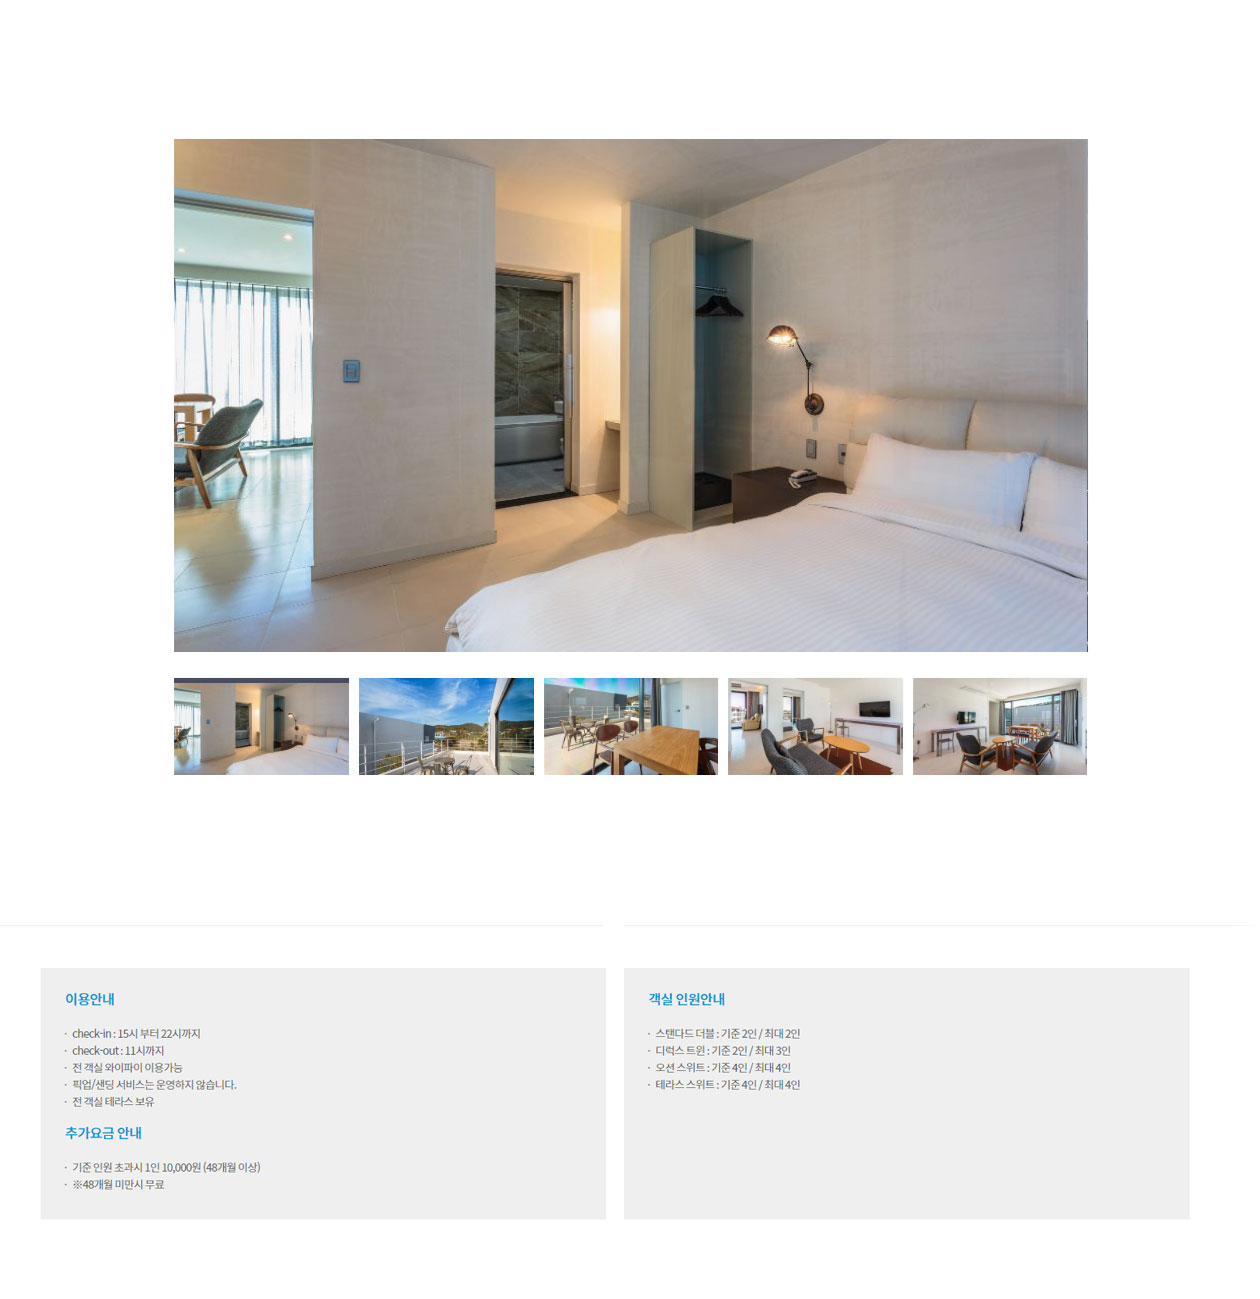
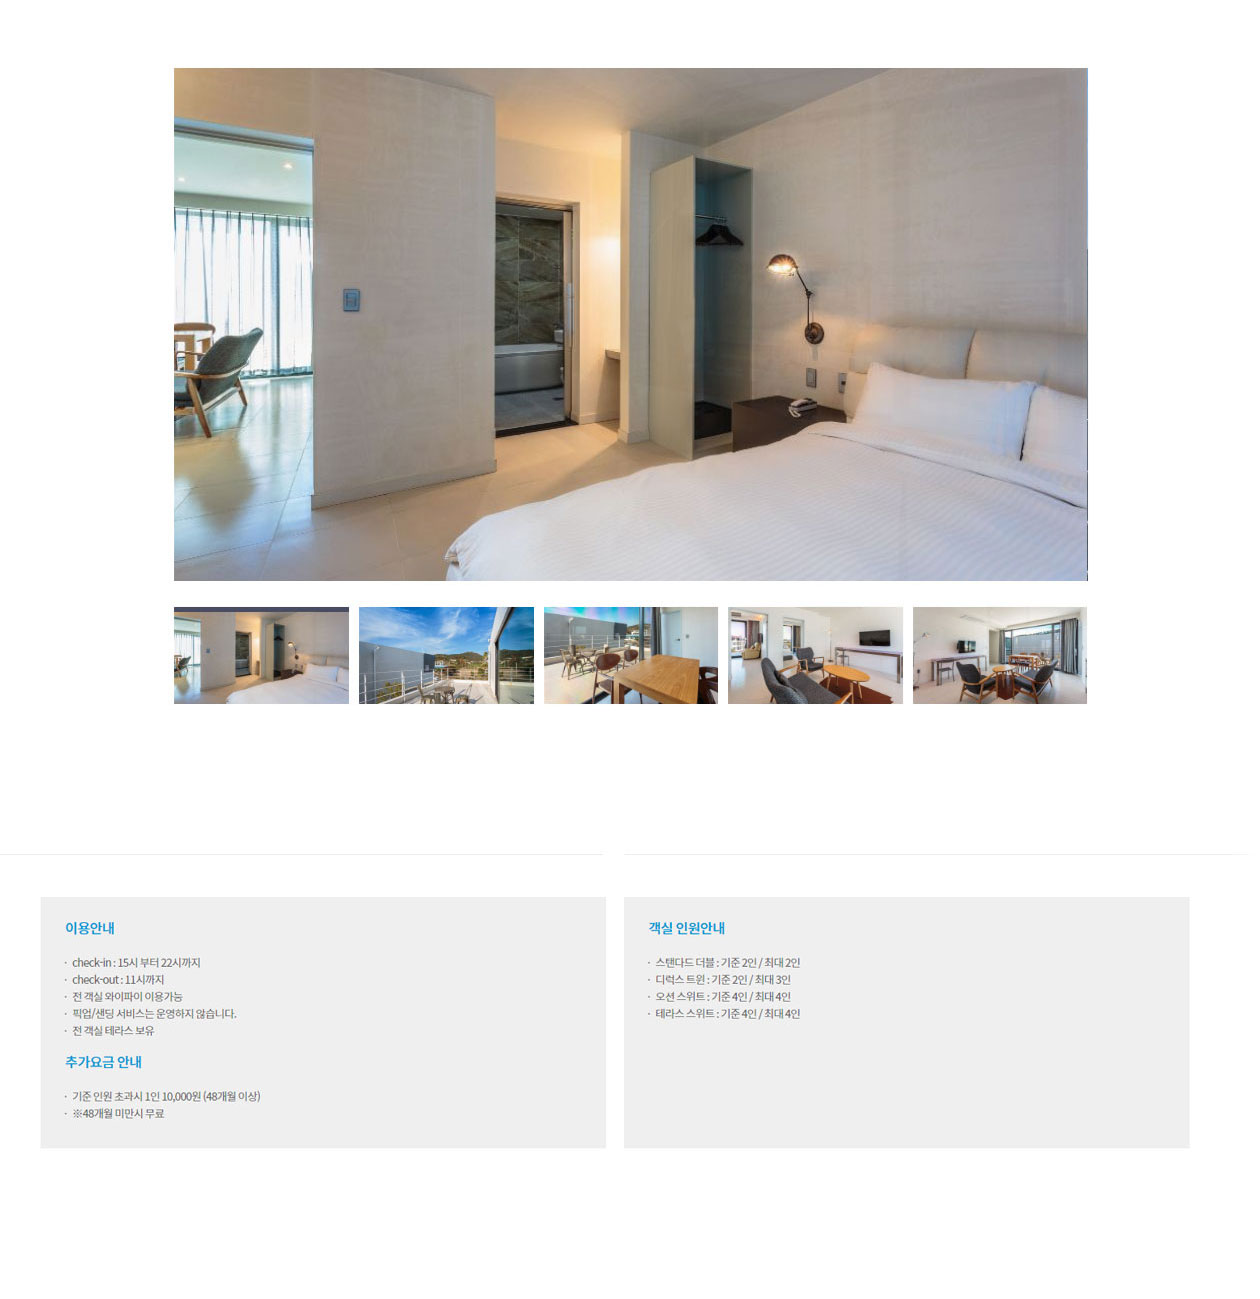
20190725

Changed region(s): [[0.1238, 0.0308, 0.8667, 0.6159], [0.031, 0.7082, 0.2167, 0.9238], [0.4952, 0.7082, 0.65, 0.8622]]

diff --git a/04company/index3.html b/04company/index3.html
@@ -136,16 +136,16 @@
 				</div>
 
       		</li>
-      		<li class="content5st wow fadeInUp" data-wow-delay="0.4s">
+      		<li class="content5st wow fadeInUp" data-wow-delay="0.1s">
       				<img src="images/main_icon_01_02.png" alt="icon_01_02">
       				<p>회사소개</p>
 
         	</li>
-      		<li class="content6st wow fadeInUp" data-wow-delay="0.5s">
+      		<li class="content6st wow fadeInUp" data-wow-delay="0.2s">
       				<img src="images/main_icon_01_03.png" alt="icon_01_03">
       				<p>투자정보</p>
         	</li>
-      		<li class="content7st wow fadeInUp" data-wow-delay="0.6s">
+      		<li class="content7st wow fadeInUp" data-wow-delay="0.3s">
       			<img src="images/main_img_01_05.jpg" alt="">
       			<div class="card">
       				<h3>전력 및 에너지 플렌트</h3>
@@ -154,30 +154,30 @@
       		</li>
       		
 
-      		<li class="content8st wow fadeInUp" data-wow-delay="0.6s">
+      		<li class="content8st wow fadeInUp" data-wow-delay="0.4s">
       			<img src="images/main_img_01_03.jpg" alt="img_01_03">
       			<div class="card">
       				<h3>전력 및 에너지 플렌트</h3>
       				<p>세상을 밝히는<br>빛과 에너지</p>
       			</div>
       		</li>
-      		<li class="content9st wow fadeInUp" data-wow-delay="0.7s">
+      		<li class="content9st wow fadeInUp" data-wow-delay="0.1s">
       			<img src="images/main_img_01_04.jpg" alt="img_01_04">
       			<div class="card">
       				<h3>전력 및 에너지 플렌트</h3>
       				<p>세상을 밝히는<br>빛과 에너지</p>
       			</div>
       		</li>
-      		<li class="content10st wow fadeInUp" data-wow-delay="0.8s">
+      		<li class="content10st wow fadeInUp" data-wow-delay="0.2s">
       				<img src="images/main_icon_01_04.png" alt="icon_01_03">
       				<p>투자정보</p>
         	</li>
-      		<li class="content11st wow fadeInUp" data-wow-delay="0.9s">
+      		<li class="content11st wow fadeInUp" data-wow-delay="0.3s">
       				<img src="images/main_icon_01_05.png" alt="icon_01_03">
       				<p>투자정보</p>
         	</li>
 
-      		<li class="content12st wow fadeInUp" data-wow-delay="1s">
+      		<li class="content12st wow fadeInUp" data-wow-delay="0.4s">
       			<img src="images/main_img_01_06.jpg" alt="img_01_04">
       			<div class="card">
       				<h3>전력 및 에너지 플렌트</h3>
@@ -188,7 +188,7 @@
       </div>
    </header>
    <!-- header끝 -->
-   <div class="container wow fadeInUp" data-wow-delay="1.1s">
+   <div class="container wow fadeInUp" data-wow-delay="0.4s">
       <div class="section">
          <h4>비전</h4>
       <p>vision 2020</p>
@@ -234,7 +234,7 @@
    </div>
    <!-- container끝 -->
    <div class="sns">
-         <ul class="clearfix wow fadeInUp" data-wow-delay="1.5s">
+         <ul class="clearfix wow fadeInUp" data-wow-delay="0.1s">
            <li class="sns_li1st">
                <img src="images/main_icon_01_09.png" alt="스마일" class="icon_01_09">
                <h1>SNS</h1>
@@ -272,7 +272,7 @@
             </a>
          </li>
         </ul>
-      <ul class="box2 wow fadeInUp" data-wow-delay="1.6s">
+      <ul class="box2 wow fadeInUp" data-wow-delay="0.2s">
          <li class="box2_1">
             <div class="card">
                   <h3>전력 및 에너지 플렌트</h3>

diff --git a/04company/css/style.css b/04company/css/style.css
@@ -627,18 +627,10 @@ background: url(../images/sub_img_01_04.jpg) no-repeat ;
 	font-size:35px;
 	margin-top:30px;
 }
-.sub02_content_wrap .hh{
-	display:block;
-	position: absolute;
-	top: 200px;
-	left: 50%;
-	margin-left:-110px;
-	font-size:1.5em;
-}
 .sub02_content_wrap .img img{
 	display:block;
 	position: absolute;
-	bottom: 0;
+	bottom:10px;
 }
 
 /*sub02끝*/
@@ -692,18 +684,10 @@ background: url(../images/sub_img_01_08.jpg) no-repeat ;
 	font-size:35px;
 	margin-top:30px;
 }
-.sub03_content_wrap .hh{
-	display:block;
-	position: absolute;
-	top: 200px;
-	left: 50%;
-	margin-left:-170px;
-	font-size:1.5em;
-}
 .sub03_content_wrap img{
 	display:block;
 	position: absolute;
-	bottom:0;
+	bottom:100px;
 }
 /*sub03끝*/
 .sub_slider_wrap ul li.sub04{
@@ -756,18 +740,10 @@ background: url(../images/sub_img_01_11.jpg) no-repeat ;
 	font-size:35px;
 	margin-top:30px;
 }
-.sub04_content_wrap .hh{
-	display:block;
-	position: absolute;
-	top: 200px;
-	left: 50%;
-	margin-left:-140px;
-	font-size:1.5em;
-}
 .sub04_content_wrap img{
 	display:block;
 	position: absolute;
-	bottom: 0;
+	bottom:100px;
 }
 /*sub04끝*/
 .sub_slider_wrap ul li.sub05{
@@ -820,16 +796,8 @@ background: url(../images/sub_img_01_10.jpg) no-repeat ;
 	font-size:35px;
 	margin-top:30px;
 }
-.sub05_content_wrap .hh{
-	display:block;
-	position: absolute;
-	top: 200px;
-	left: 50%;
-	margin-left:-160px;
-	font-size:1.5em;
-}
 .sub05_content_wrap img{
 	display:block;
 	position: absolute;
-	bottom: 0;
+	bottom: 100px;
 }

diff --git a/04company/sub02.html b/04company/sub02.html
@@ -70,9 +70,6 @@
              <ul class="title">
                 <h3>스탠다드 더블</h3>
              </ul>
-             <p class="hh">
-               기준2인/최대2인
-             </p>
              <ul class="img">
                <img src="images/sub_img_01_03.jpg" alt="01_03">
              </ul>
@@ -89,9 +86,6 @@
              <ul class="title">
                 <h3>디럭스 트윈</h3>
              </ul>
-             <p class="hh">
-               기준2인/최대3인
-             </p>
              <ul class="img">
                <img src="images/sub_img_01_05.jpg" alt="01_03">
              </ul>
@@ -108,9 +102,6 @@
              <ul class="title">
                 <h3>오션 스위트</h3>
              </ul>
-             <p class="hh">
-               기준4인/최대4인
-             </p>
              <ul class="img">
                <img src="images/sub_img_01_06.jpg" alt="01_03">
              </ul>
@@ -127,9 +118,6 @@
              <ul class="title">
                 <h3>테라스 스위트</h3>
              </ul>
-             <p class="hh">
-               기준4인/최대4인
-             </p>
              <ul class="img">
                <img src="images/sub_img_01_07.jpg" alt="01_03">
              </ul>

diff --git a/04company/sub01.html b/04company/sub01.html
@@ -41,7 +41,7 @@
       		<li class="sub">
       			<div class="sub_slider_txt">
       				<h3>소개</h3>
-      				<p>회사에서 이뤄낸 기술 변화가 세상을 바꿉니다.</p>
+      				<p>고객의 행복한 미래를 위해 끊임없이 도전하고 있습니다.</p>
       			</div>
       		</li>
       	</ul>
@@ -58,7 +58,6 @@
            <div class="title">
               <h3>소개</h3>
            </div>
-           <p class="hh">고객의 행복한 미래를 위해 끊임없이 도전하고 있습니다.</p>
            <div class="sub_img">
              <img src="images/sub_img_01_02.jpg" alt="01_02">
            </div>

diff --git a/04company/sub03.html b/04company/sub03.html
@@ -41,7 +41,7 @@
       		<li class="sub03">
       			<div class="sub_slider_txt">
       				<h3>포토갤러리</h3>
-      				<p>Lorem ipsum dolor sit amet.</p>
+      				<p>편안한 포토 후기 공간입니다.</p>
       			</div>
       		</li>
       	</ul>
@@ -59,9 +59,6 @@
            <div class="title">
               <h3>포토갤러리</h3>
            </div>
-           <p class="hh">
-             편안한 포토 후기 공간입니다.
-           </p>
            <img src="images/sub_img_01_09.jpg" alt="01_09">
       </div>
    </div>

diff --git a/04company/sub05.html b/04company/sub05.html
@@ -41,7 +41,7 @@
       		<li class="sub05">
       			<div class="sub_slider_txt">
       				<h3>오시는 길</h3>
-      				<p>Lorem ipsum dolor sit amet.</p>
+      				<p>Память 호텔로 오시는 길</p>
       			</div>
       		</li>
       	</ul>
@@ -59,9 +59,6 @@
            <div class="title">
               <h3>오시는 길</h3>
            </div>
-           <p class="hh">
-             Память 호텔로 오시는 길 
-           </p>
            <img src="images/sub_img_01_13.jpg" alt="01_13">
       </div>
    </div>

diff --git a/04company/sub04.html b/04company/sub04.html
@@ -41,7 +41,7 @@
       		<li class="sub04">
       			<div class="sub_slider_txt">
       				<h3>예약안내</h3>
-      				<p>Lorem ipsum dolor sit amet.</p>
+      				<p>예약& 예약 확인안내</p>
       			</div>
       		</li>
       	</ul>
@@ -59,9 +59,6 @@
            <div class="title">
               <h3>예약안내</h3>
            </div>
-           <p class="hh">
-             예약& 예약 확인안내
-           </p>
            <img src="images/sub_img_01_12.jpg" alt="01_12">
       </div>
    </div>
